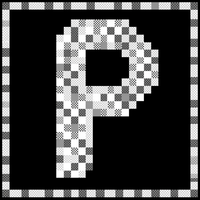
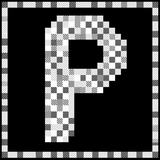
left align (default) resize 160x

diff --git a/README.md b/README.md
@@ -1,6 +1,6 @@
-<p align="center">
-  <img src="docs/parch-mark-small-crushed.png" alt="parch">
-</p>
+
+<img src="docs/parch-mark-small-crushed.png" alt="parch">
+
 
 # parch
 
